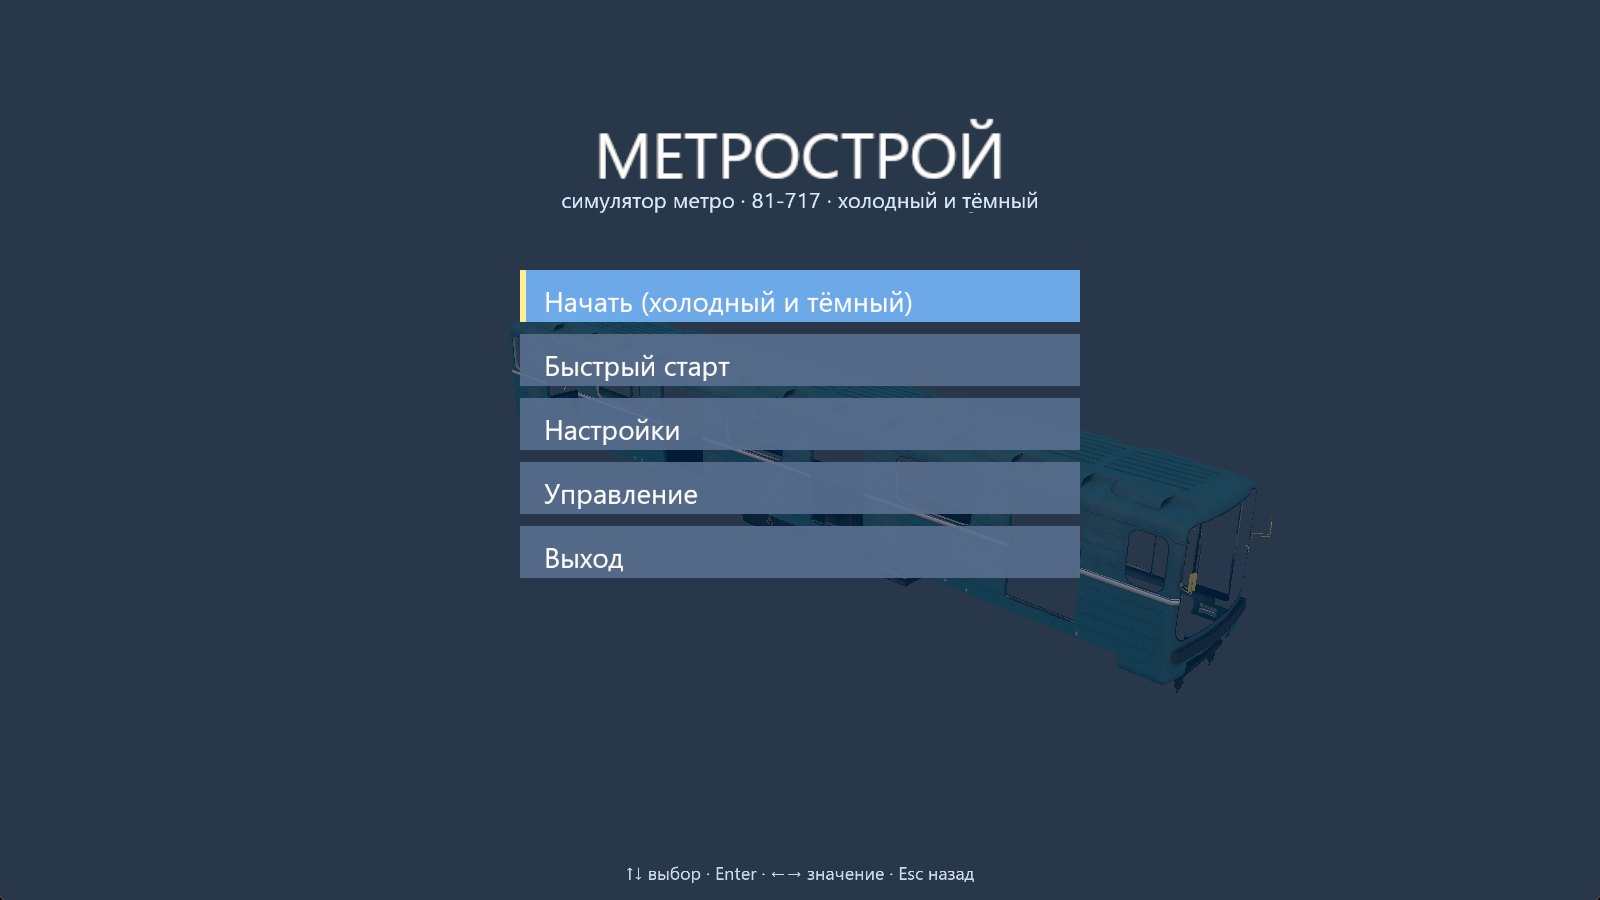
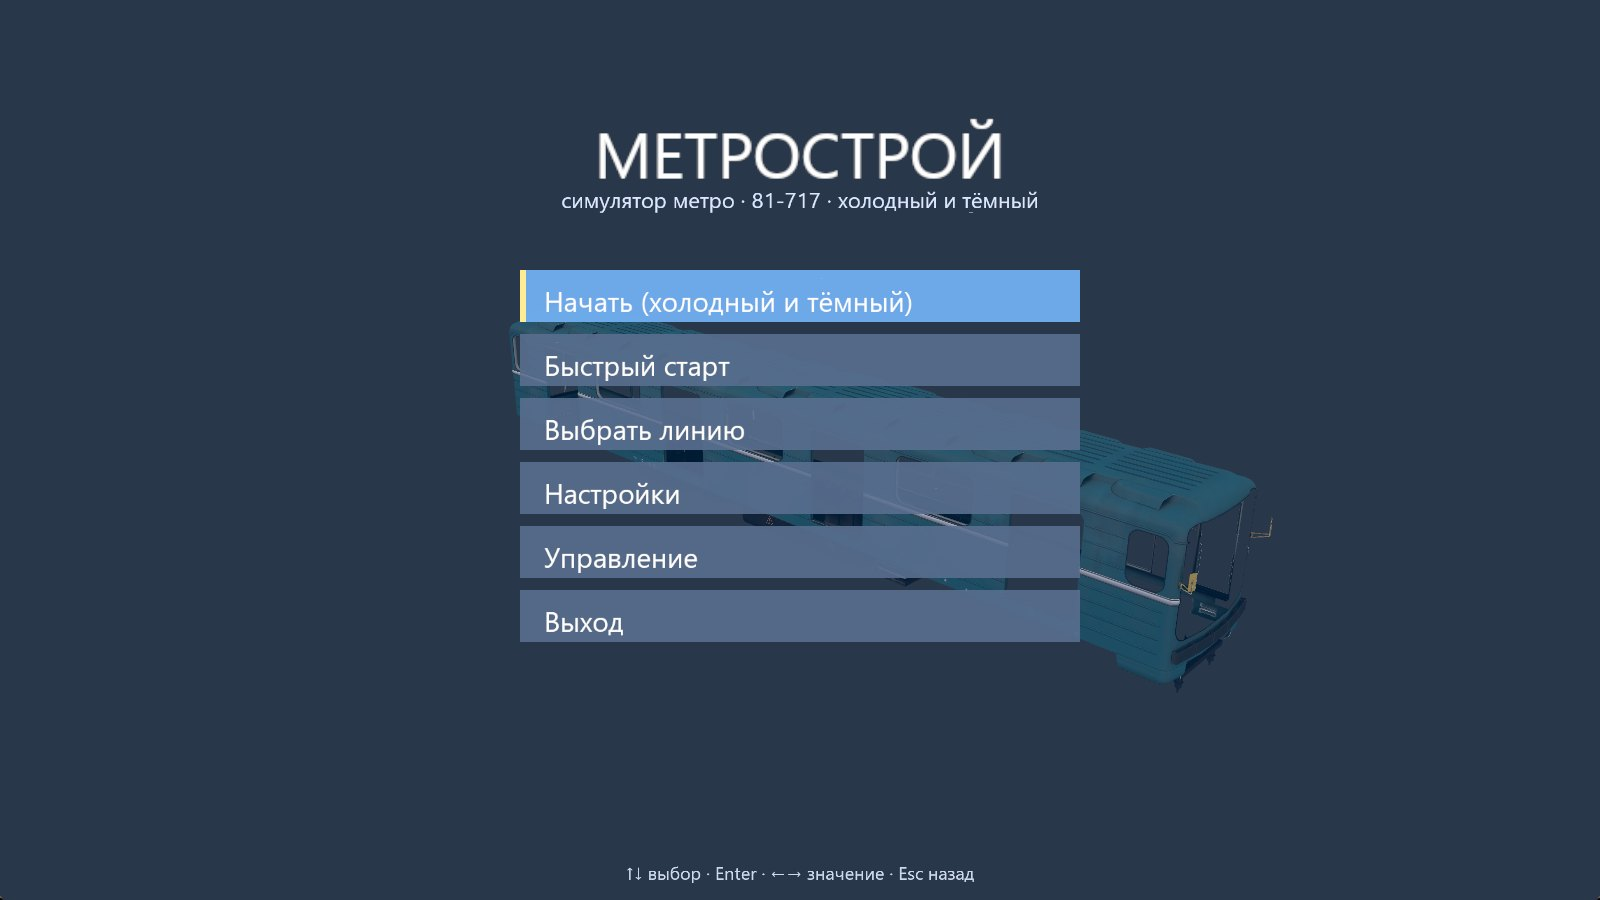
Refresh the site and screenshots: Moscow lines, trip statistics, consist and graphics

diff --git a/docs/index.html b/docs/index.html
@@ -133,6 +133,9 @@ footer { margin-top: 80px; padding: 30px 0 50px; border-top: 1px solid var(--lin
     <div class="grid">
       <div class="card"><div class="ico">🎛</div><h3>Кабина 1:1</h3><p>Все 353 кнопки и тумблера нажимаются мышью и вызывают настоящие <code>ButtonEvent</code> Lua. Подсказки — русские описания из языковых файлов Metrostroi.</p></div>
       <div class="card"><div class="ico">🚆</div><h3>Физика и ARS</h3><p>Тяга, торможение и уклон из полей тележек, которые пишет Lua. АРС-заглушка ограничивает скорость по кодам и срабатывает автостоп.</p></div>
+      <div class="card"><div class="ico">🗺</div><h3>Метро Москвы</h3><p>34 маршрута по реальным станциям и расстояниям между ними (OpenStreetMap), профиль глубины и кривые с сопротивлением. Выбор линии в меню.</p></div>
+      <div class="card"><div class="ico">🚃</div><h3>Составы и физика</h3><p>Несколько вагонов с общими поездными проводами Metrostroi, динамика по силам тележек, сопротивление в кривых, проверка разгона и торможения тестом.</p></div>
+      <div class="card"><div class="ico">✨</div><h3>Графика</h3><p>Уровни качества до Ультра: HDR, свечение, затенение в углах (SSAO), масштаб рендера 50–100 %.</p></div>
       <div class="card"><div class="ico">🗺</div><h3>Трасса и мир</h3><p>Путь и знаки из данных карты, геометрия BSP с встроенными текстурами. Машина стоит в начале координат, мир движется вокруг.</p></div>
       <div class="card"><div class="ico">🚦</div><h3>Сигналы и блоки</h3><p>Светофоры и путевые знаки расставлены по таблицам сущностей Metrostroi. Стоящий впереди поезд делает сигналы красными и жёлтыми.</p></div>
       <div class="card"><div class="ico">🚉</div><h3>Станции</h3><p>Платформы из сущностей карты: расстояние, сторона дверей, предупреждения об открытых дверях и точность остановки.</p></div>
@@ -148,14 +151,16 @@ footer { margin-top: 80px; padding: 30px 0 50px; border-top: 1px solid var(--lin
     <h2>Скриншоты</h2>
     <p class="sub">Снято в самой программе. Нажмите, чтобы увеличить. Поверхности карты без текстур Half-Life 2 пока закрашены цветом-заменителем.</p>
     <div class="gallery">
+      <figure><div class="imgbox"><img loading="lazy" src="img/moscow_cab.jpg" alt=""></div><figcaption><b>Москва</b> — сгенерированная линия по реальным станциям и расстояниям (34 маршрута), кабина с HUD</figcaption></figure>
+      <figure><div class="imgbox"><img loading="lazy" src="img/trip.jpg" alt=""></div><figcaption><b>Статистика рейса</b> — оценка, точность остановок, автостопы и нарушения дверей</figcaption></figure>
       <figure><div class="imgbox"><img loading="lazy" src="img/station.jpg" alt=""></div><figcaption><b>Станция</b> — геометрия карты, лайтмапы, мраморный пол и колонны (вид с пути)</figcaption></figure>
       <figure><div class="imgbox"><img loading="lazy" src="img/tunnel.jpg" alt=""></div><figcaption><b>Туннель</b> — модели туннеля, лайтмапы и статичные объекты карты Crossline</figcaption></figure>
       <figure><div class="imgbox"><img loading="lazy" src="img/tooltip.jpg" alt=""></div><figcaption><b>Кабина</b> — подсказка у кнопки, HUD станции и скорости</figcaption></figure>
       <figure><div class="imgbox"><img loading="lazy" src="img/signals.jpg" alt=""></div><figcaption><b>Сигналы и блок</b> — светофоры впереди и стоящий состав за ними</figcaption></figure>
       <figure><div class="imgbox"><img loading="lazy" src="img/salon.jpg" alt=""></div><figcaption><b>Салон</b> — прогулка по вагону от первого лица</figcaption></figure>
       <figure><div class="imgbox"><img loading="lazy" src="img/orbit.jpg" alt=""></div><figcaption><b>Вид снаружи</b> — 81-717 с оригинальным скином из Lua</figcaption></figure>
-      <figure><div class="imgbox"><img loading="lazy" src="img/menu.jpg" alt=""></div><figcaption><b>Главное меню</b> — начать с нуля или быстрый старт</figcaption></figure>
-      <figure><div class="imgbox"><img loading="lazy" src="img/pause.jpg" alt=""></div><figcaption><b>Пауза</b> — сброс автостопа, поезд в начало, настройки</figcaption></figure>
+      <figure><div class="imgbox"><img loading="lazy" src="img/menu.jpg" alt=""></div><figcaption><b>Главное меню</b> — холодный старт, быстрый старт, выбор линии Москвы</figcaption></figure>
+      <figure><div class="imgbox"><img loading="lazy" src="img/pause.jpg" alt=""></div><figcaption><b>Пауза</b> — быстрый запуск, сохранить/загрузить кабину, статистика рейса, настройки</figcaption></figure>
       <figure><div class="imgbox"><img loading="lazy" src="img/help.jpg" alt=""></div><figcaption><b>Управление</b> — все клавиши в одном месте</figcaption></figure>
     </div>
   </div>
@@ -209,14 +214,16 @@ footer { margin-top: 80px; padding: 30px 0 50px; border-top: 1px solid var(--lin
         <li><b>BSP-мир, сигналы, знаки</b><span>светофоры и таблички по таблицам Metrostroi</span></li>
         <li><b>Блоки, станции, двери</b><span>стоящий поезд, платформы, предупреждения</span></li>
         <li><b>Звук, меню, HUD</b><span>циклы и одиночные звуки, настройки</span></li>
+        <li><b>Составы, Москва, Ультра-графика</b><span>вагоны с общими проводами, 34 линии, HDR и SSAO</span></li>
+        <li><b>Статистика рейса, сохранение кабины</b><span>оценка остановок, переназначение клавиш</span></li>
         <li><b>Ходьба и коллизии</b><span>салон, выход через двери, стены</span></li>
       </ul>
       <ul class="timeline">
-        <li class="todo"><b>Движущиеся ИИ-поезда и стрелки</b><span>нужна связность путей</span></li>
-        <li class="todo"><b>Лайтмапы, статик-пропы, небо</b><span>сейчас мир закрашен заменителями</span></li>
-        <li class="todo"><b>Названия станций и объявления</b></li>
+        <li class="todo"><b>Движущиеся ИИ-поезда и стрелки</b><span>в картах нет данных о ветвлении</span></li>
+        <li class="todo"><b>Усилия в сцепках, проскальзывание колёс</b></li>
+        <li class="todo"><b>Настоящий профиль глубины Москвы</b><span>сейчас приближённый</span></li>
+        <li class="todo"><b>Android</b><span>план в ROADMAP</span></li>
         <li class="todo"><b>Настоящая цепочка БАРС</b><span>вместо заглушки</span></li>
-        <li class="todo"><b>Составы из нескольких вагонов</b></li>
         <li class="todo"><b>Второй тип поезда</b><span>доказать, что загрузчик не привязан к 717</span></li>
       </ul>
     </div>
@@ -226,7 +233,7 @@ footer { margin-top: 80px; padding: 30px 0 50px; border-top: 1px solid var(--lin
 <section id="build">
   <div class="wrap">
     <h2>Сборка и запуск</h2>
-    <p class="sub">Нужны Windows, Rust (MSVC), видеокарта с Vulkan/DX12 и ваши подписки на контент Metrostroi в Steam Workshop.</p>
+    <p class="sub">Нужны Windows, видеокарта с Vulkan/DX12 и ваши подписки на контент Metrostroi в Steam Workshop. Готовая сборка — архив <code>Metrostroi-rs-0.1.0-win64.zip</code>: распаковать и запустить <code>Metrostroi-rs.exe</code>, путь к Workshop находится сам. Сборка из исходников — ниже.</p>
     <div class="note" style="margin-bottom:20px"><b>Про ассеты.</b> Модели, текстуры и звуки Metrostroi принадлежат их авторам, поэтому в репозиторий и на этот сайт они не включены. Программа читает их из вашей установки Steam Workshop (GMod, appid 4000) во время запуска; на скриншотах — кадры из самой программы.</div>
 <pre>git clone https://github.com/LakoMoor/metrostroi-rs
 cd metrostroi-rs

diff --git a/tools/grab.py b/tools/grab.py
@@ -1,0 +1,26 @@
+"""Screenshot of the running game window by screen copy (the window-capture API returns black for it).
+usage: python tools/grab.py out.png [key ...]   keys are virtual-key codes sent first, e.g. 0x28 0x0D
+"""
+import subprocess, sys, time
+UM = r"C:/Users/lakom/.claude/plugins/cache/universal-modder/universal-modder/0.2.0/"
+
+def drive(*cmds):
+    out = subprocess.run([sys.executable, "-m", "um", "win", "drive", "--proc", "Metrostroi-rs", *cmds], cwd=UM, capture_output=True, text=True).stdout
+    return out
+
+def grab(path):
+    drive("focus")
+    time.sleep(0.8)
+    ps = ("Add-Type -AssemblyName System.Windows.Forms,System.Drawing;"
+          "$p=Get-Process Metrostroi-rs;Add-Type 'using System;using System.Runtime.InteropServices;public class W{[DllImport(\"user32.dll\")]public static extern bool GetClientRect(IntPtr h,out RECT r);[DllImport(\"user32.dll\")]public static extern bool ClientToScreen(IntPtr h,ref P p);public struct RECT{public int l,t,r,b;}public struct P{public int x,y;}}';"
+          "$r=New-Object W+RECT;[W]::GetClientRect($p.MainWindowHandle,[ref]$r)|Out-Null;$o=New-Object W+P;[W]::ClientToScreen($p.MainWindowHandle,[ref]$o)|Out-Null;"
+          "$w=$r.r;$h=$r.b;$b=New-Object System.Drawing.Bitmap $w,$h;$g=[System.Drawing.Graphics]::FromImage($b);$g.CopyFromScreen($o.x,$o.y,0,0,$b.Size);"
+          f"$b.Save('{path}')")
+    subprocess.run(["powershell", "-Command", ps])
+
+if __name__ == "__main__":
+    for k in sys.argv[2:]:
+        drive(f"key {k}")
+        time.sleep(0.4)
+    time.sleep(1.5)
+    grab(sys.argv[1].replace("/", "\\"))

diff --git a/sim/crates/viewer/src/sim.rs b/sim/crates/viewer/src/sim.rs
@@ -1077,7 +1077,8 @@ mod tests {
     #[test]
     #[ignore]
     fn whole_line_is_driveable_station_to_station() {
-        let dir = Path::new("E:/metrostroi2pz/game/content/maps/moscow/326491");
+        let id = std::env::var("MS_LINE_MAP").unwrap_or_else(|_| "326491".into());
+        let dir = &Path::new("E:/metrostroi2pz/game/content/maps/moscow").join(id);
         if !Path::new(LUA_ROOT).exists() || !dir.join("stations.json").exists() {
             return;
         }
